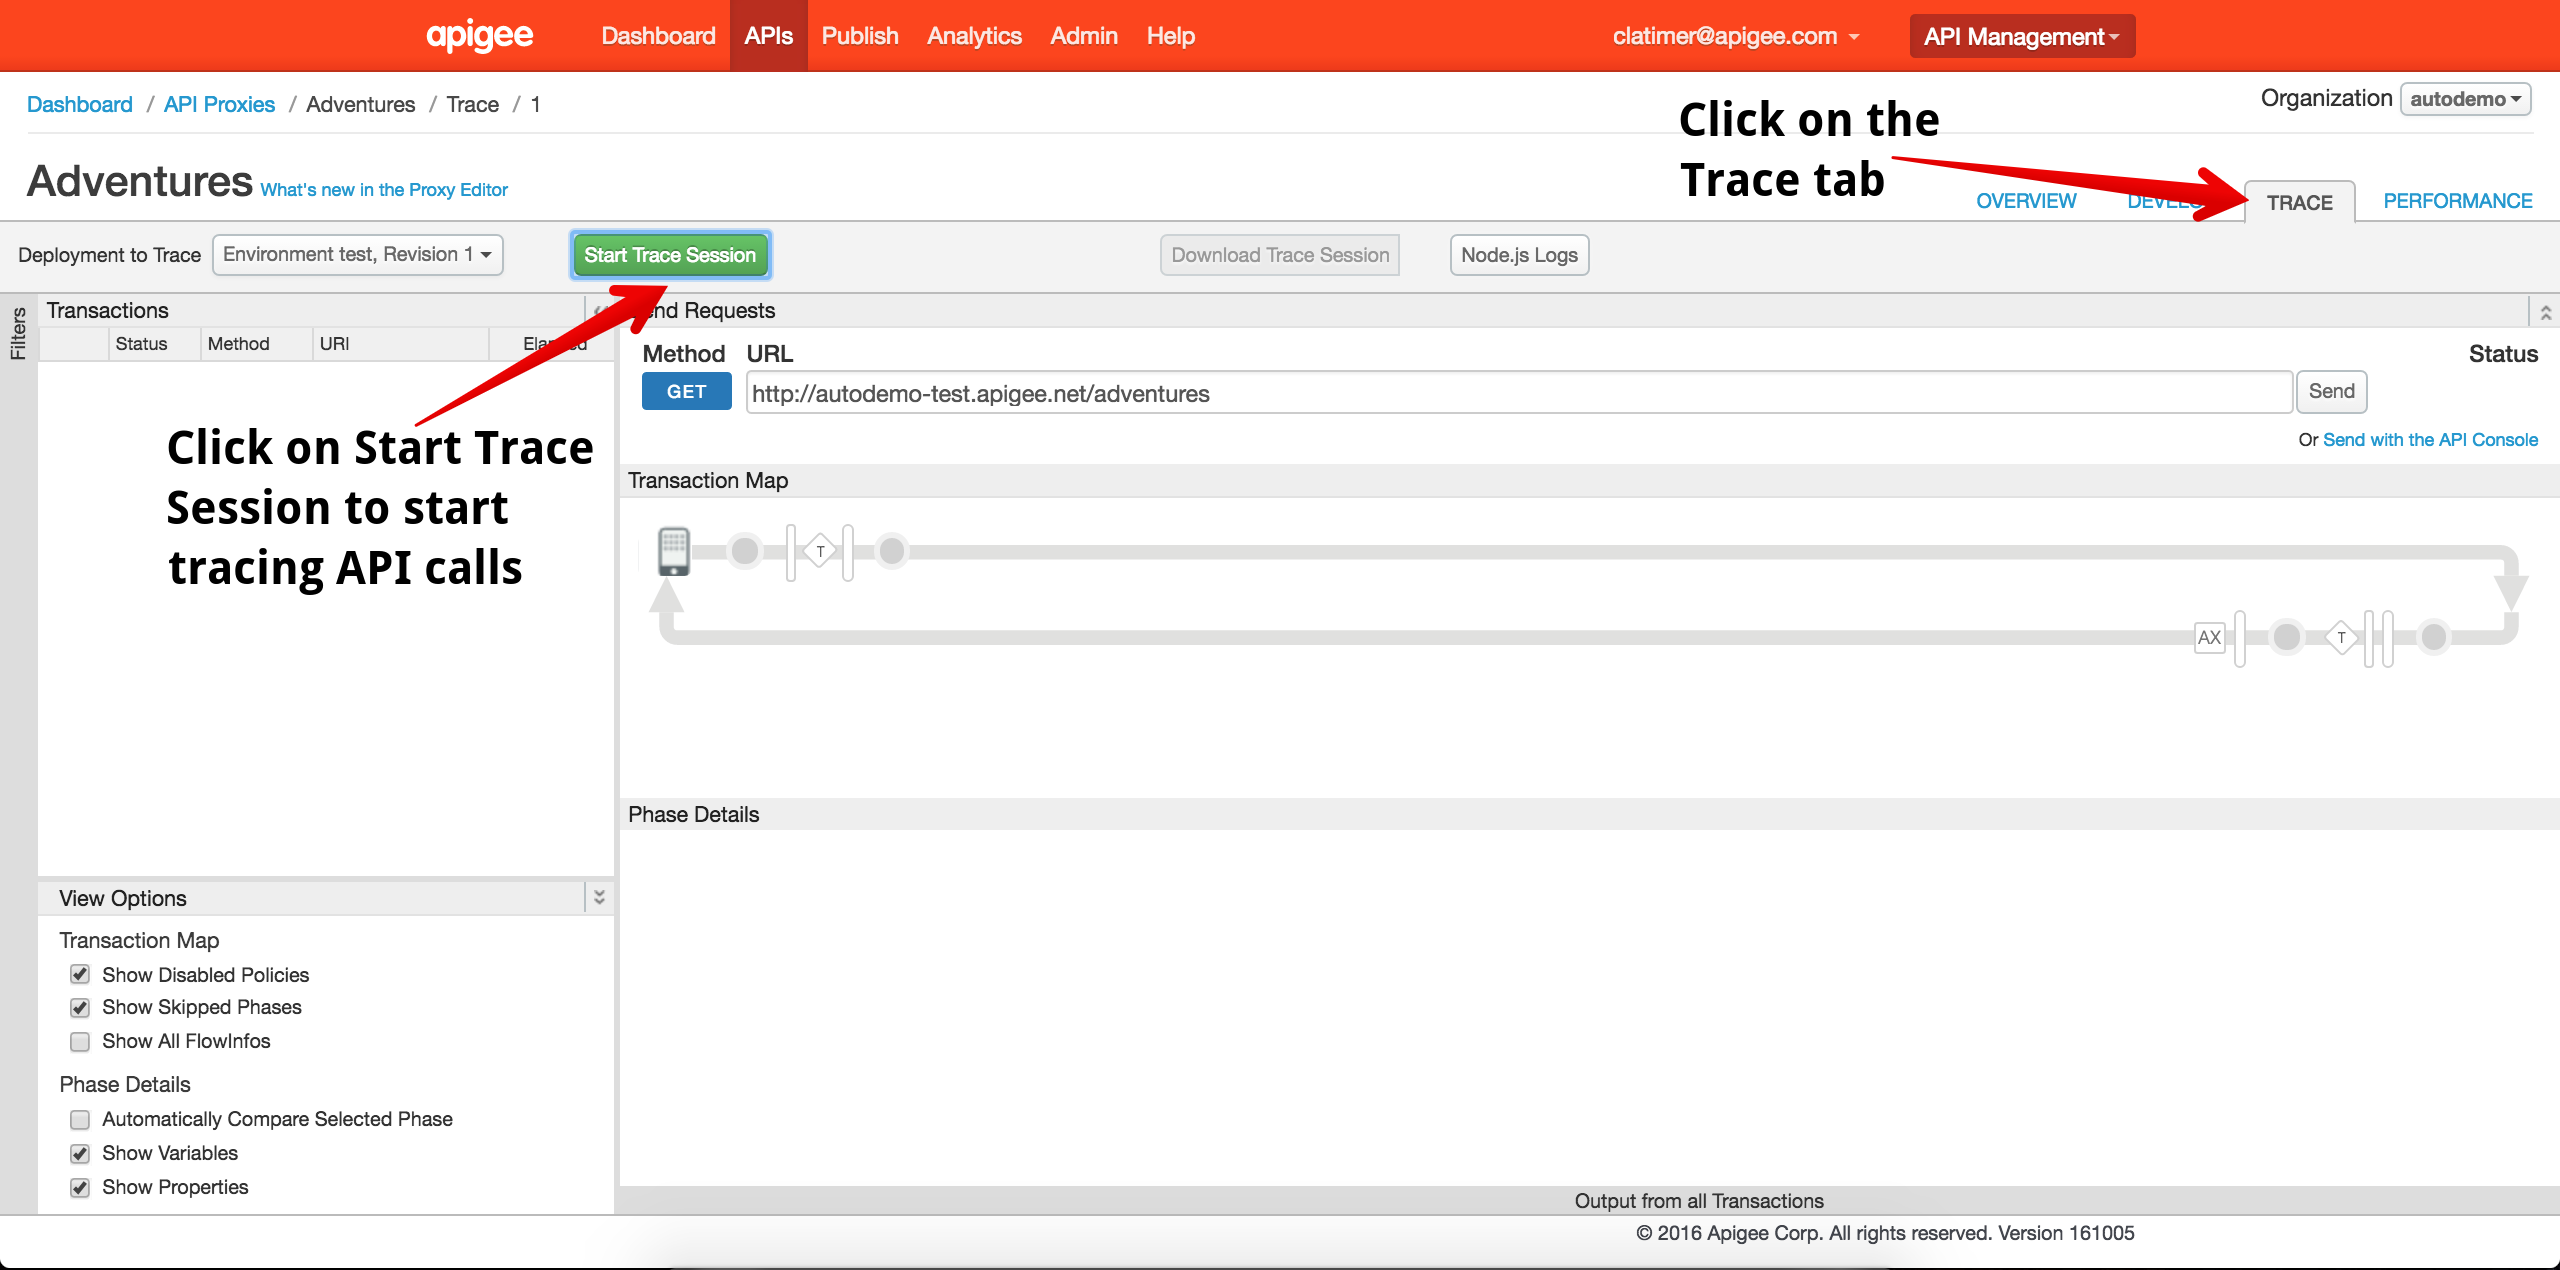
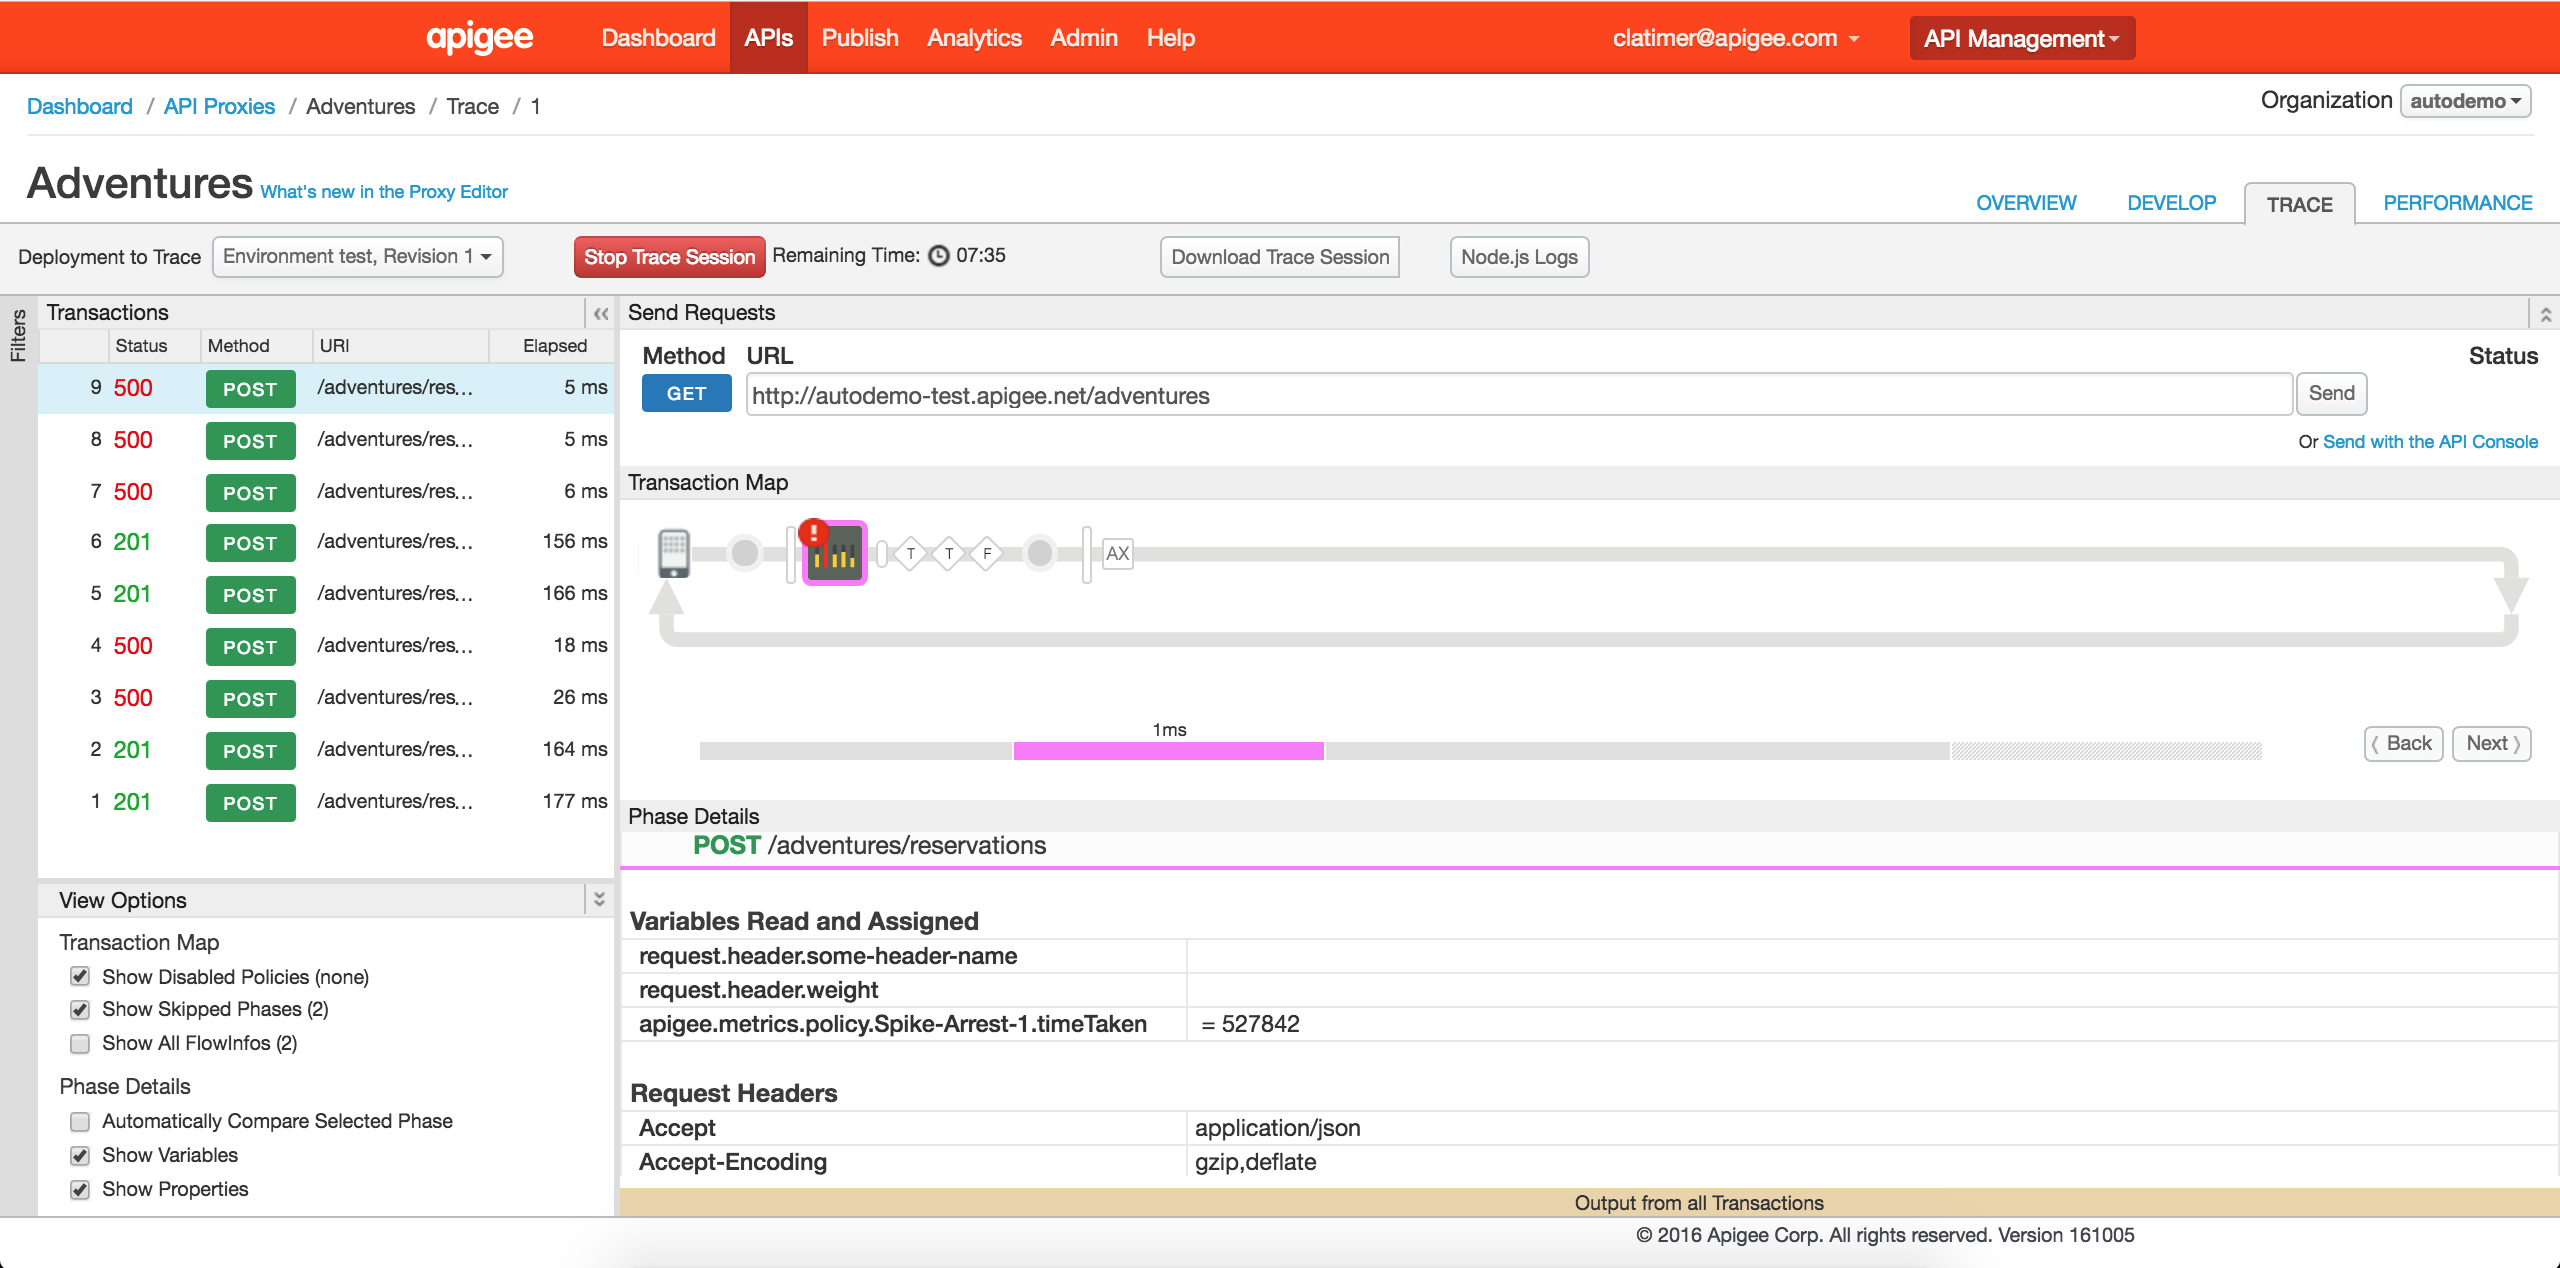
lab2 interim

diff --git a/lab3.md b/lab3.md
@@ -39,3 +39,9 @@ Return to your API Studio browser tab. Just as in previous steps, send multiple 
  As you exceed the *frequency* of API calls that you specified in your Spike Arrest policy, you should begin to see errors.
 
 ![Spike Trace](spike-error.png)
+
+## View Results in the Trace Tool
+
+Return to the Apigee Edge Management UI and view the trace session for your API. You can now verify that your throttling policy is rejecting traffic. 
+
+![Spike Trace](spike-trace.png)
